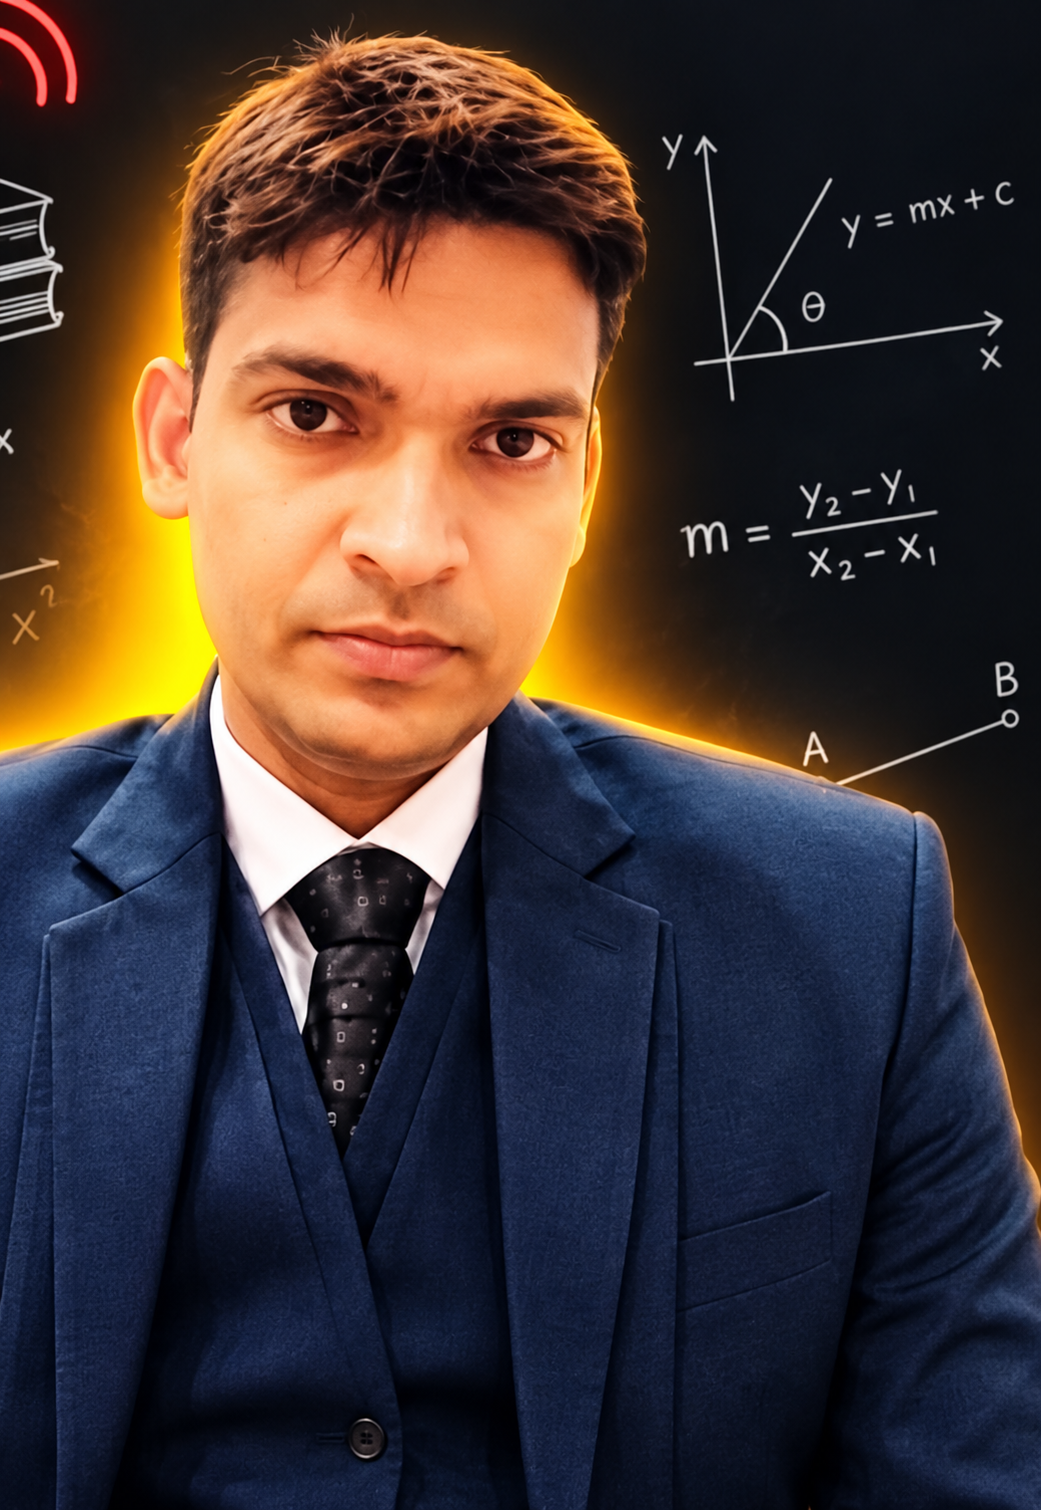
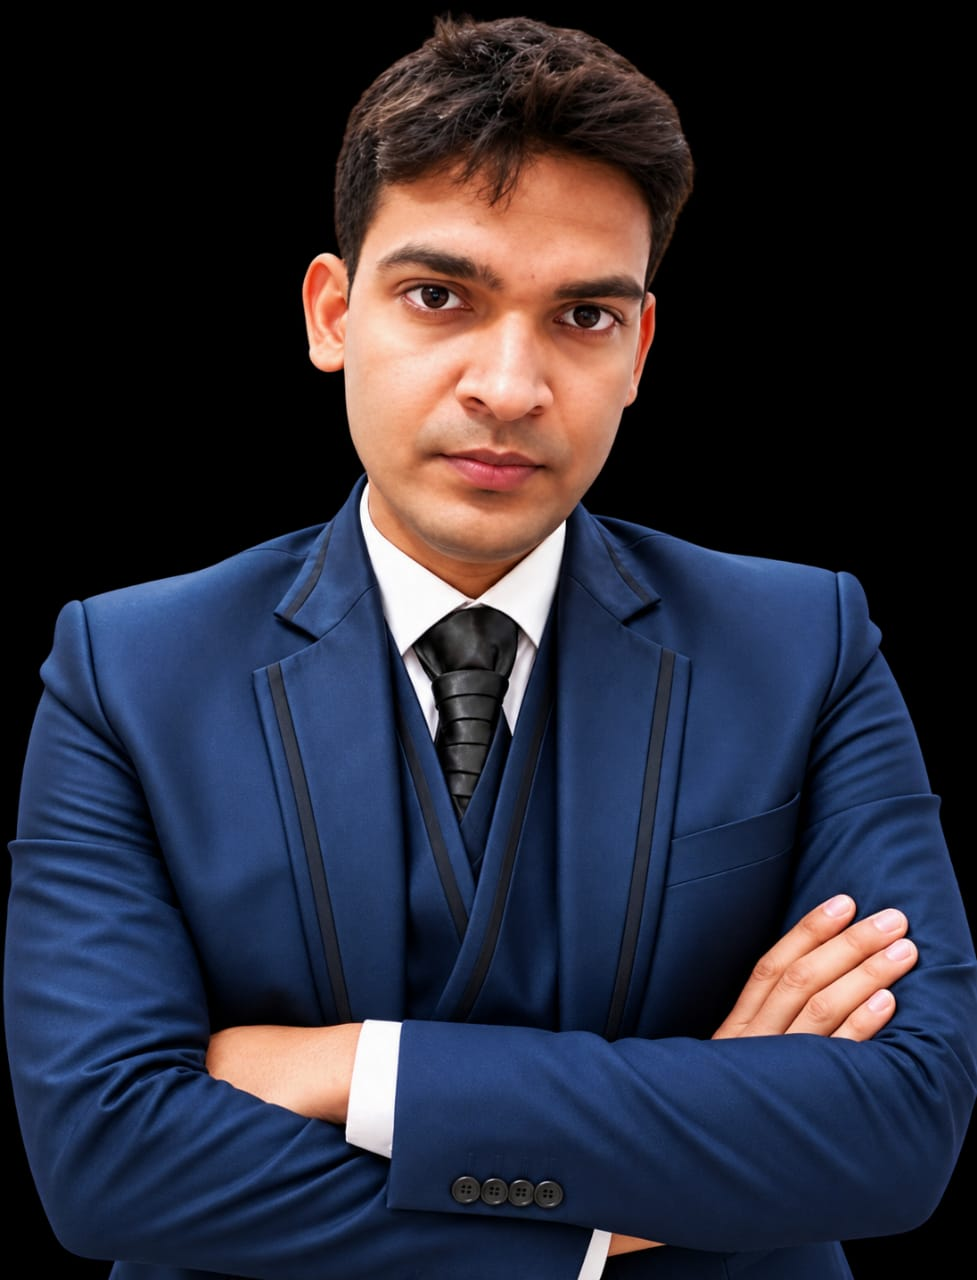
updated faculty photo

diff --git a/index.html b/index.html
@@ -660,11 +660,11 @@
 
               <p class="nishtha-teacher-description">
                 An experienced engineering professional and educator with 15 years of experience in Mathematics and
-                technical education. He has served in various institutions, including Naraina College of Engineering &
-                Technology and Axis Institute of Technology & Management. He is presently working at Virendra Swarup
-                Group of Institutions, Unnao, as Head of the Electrical Engineering (EE) Department. His teaching
-                approach focuses on building strong conceptual foundations and developing analytical thinking. He
-                emphasizes logical reasoning, practical applications, and systematic problem-solving techniques.
+                technical education. He has served at reputed institutions, including Naraina College of Engineering &
+                Technology and Axis Institute of Technology & Management. His teaching approach focuses on building
+                strong conceptual foundations and developing analytical thinking. He emphasizes logical reasoning,
+                practical applications, and systematic problem-solving techniques to help students develop a deeper
+                understanding of mathematical and technical concepts.
 
 
               </p>
